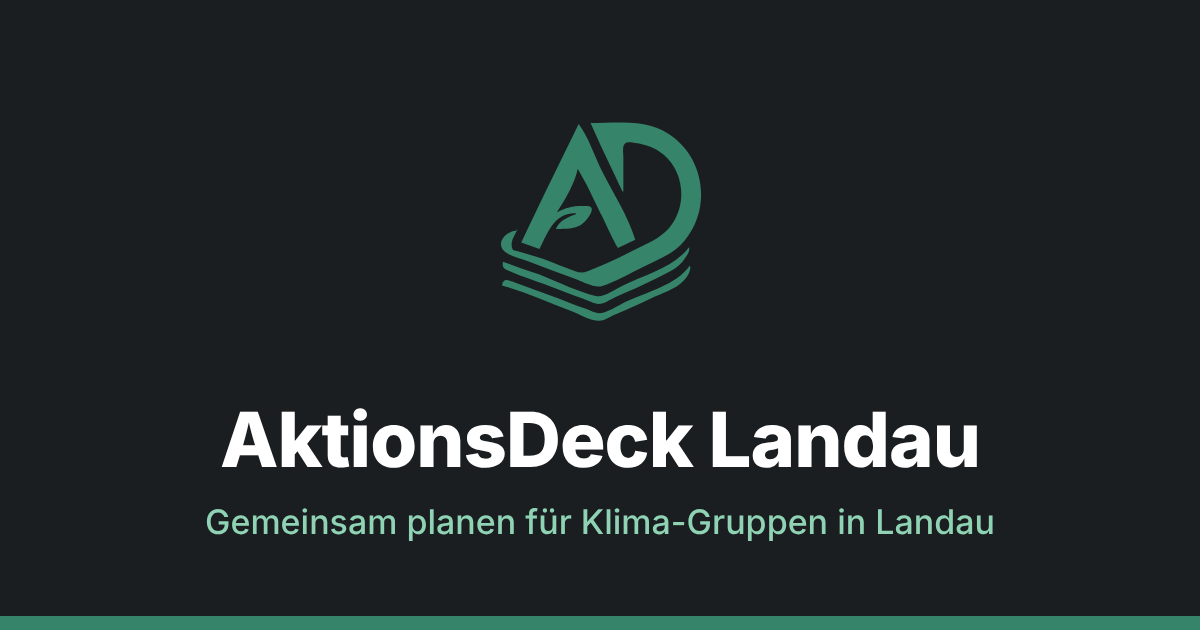
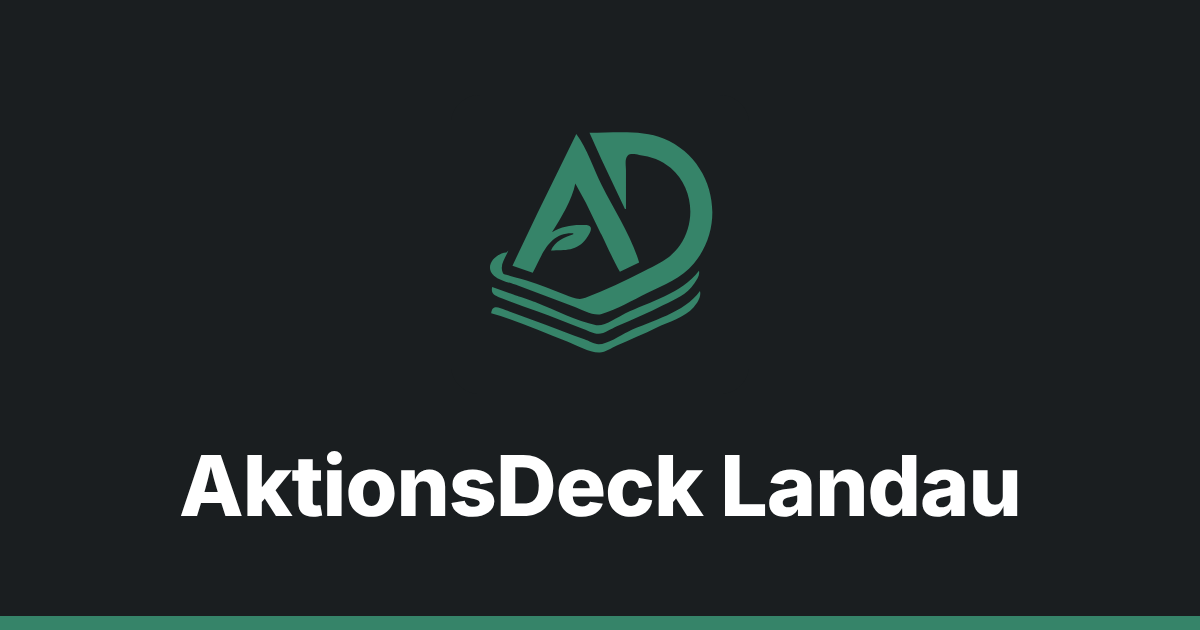
Nachbesserung Link-Vorschau: Bild ohne Satz, neue Beschreibung
Version 1.1.4 -> 1.1.5.

Claude-Session: https://claude.ai/code/session_018iHQc7QXARgUH8L4gKRJaf

Changed region(s): [[0.1542, 0.6333, 0.8633, 0.8746], [0.4008, 0.181, 0.6167, 0.573]]

diff --git a/index.html b/index.html
@@ -7,18 +7,18 @@
   <title>AktionsDeck Landau</title>
   <meta name="theme-color" content="#368469">
   <!-- Link-Vorschau (Open Graph): Das zeigen Signal, WhatsApp, Telegram und Co., wenn jemand den Link verschickt. Bild 1200 x 630. -->
-  <meta name="description" content="Web-App für Klima-Gruppen in Landau: Projekte, ToDos, Material, Mobi, Kalender und Wiki an einem Ort.">
+  <meta name="description" content="Web-App für Engagement in Landau. Gezielt planen, gemeinsam handeln, gemeinsam bewegen.">
   <meta property="og:type" content="website">
   <meta property="og:site_name" content="AktionsDeck Landau">
   <meta property="og:locale" content="de_DE">
   <meta property="og:title" content="AktionsDeck Landau">
-  <meta property="og:description" content="Web-App für Klima-Gruppen in Landau: Projekte, ToDos, Material, Mobi, Kalender und Wiki an einem Ort.">
+  <meta property="og:description" content="Web-App für Engagement in Landau. Gezielt planen, gemeinsam handeln, gemeinsam bewegen.">
   <meta property="og:url" content="https://fridaysforfuture-landau.de/aktionsdeck-landau/">
   <meta property="og:image" content="https://fridaysforfuture-landau.de/aktionsdeck-landau/icons/vorschau.png">
   <meta property="og:image:type" content="image/png">
   <meta property="og:image:width" content="1200">
   <meta property="og:image:height" content="630">
-  <meta property="og:image:alt" content="Logo von AktionsDeck Landau mit dem Satz: Gemeinsam planen für Klima-Gruppen in Landau">
+  <meta property="og:image:alt" content="Logo und Name von AktionsDeck Landau">
   <meta name="twitter:card" content="summary_large_image">
   <script src="js/darstellung-start.js"></script>
   <link rel="manifest" href="manifest.webmanifest">

diff --git a/js/config.js b/js/config.js
@@ -2,7 +2,7 @@
 // Einstellungen der App. Keine PINs, keine Geheimnisse.
 
 // Bei jeder Änderung an der App hochzählen. Gleiche Nummer steht in sw.js.
-export const VERSION = '1.1.4';
+export const VERSION = '1.1.5';
 
 // Web-App-URL aus Schritt 1.4 (endet auf /exec)
 export const API_URL = 'https://script.google.com/macros/s/AKfycbxdAQc32go_QZNAFxeEL89isDW49KTncxkUrEEXUKyDReCZKxChj7B5aPa9wyhy--uf9Q/exec';

diff --git a/sw.js b/sw.js
@@ -3,7 +3,7 @@
 // Eine neue Version lädt im Hintergrund und wartet, bis die App „Jetzt neu laden“ schickt (js/app.js).
 // Daten der API liegen nicht hier, sondern in IndexedDB (js/cache.js).
 
-const VERSION = '1.1.4';
+const VERSION = '1.1.5';
 const CACHE = 'aktionsdeck-' + VERSION;
 
 const HUELLE = [

diff --git a/docs/STAND.md b/docs/STAND.md
@@ -4,7 +4,7 @@
 Lies sie zuerst, bei jeder Aufgabe. `CLAUDE.md` im Hauptordner zeigt nur hierher.
 Für eine neue Etappe kommt ein eigener Plan dazu (`docs/PLAN-ETAPPE-<n>.md`); am Ende der Etappe wird er hier eingearbeitet und gelöscht.
 
-- Version der App: **1.1.4** (gleich in `js/config.js` und `sw.js`: beide Dateien prüfen)
+- Version der App: **1.1.5** (gleich in `js/config.js` und `sw.js`: beide Dateien prüfen)
 - Repo: https://github.com/fridaysforfuture-landau-pfalz/aktionsdeck-landau
 - Seite (App): https://fridaysforfuture-landau.de/aktionsdeck-landau/
 - Laufende Etappe: **keine**. Etappe 13 „Gruppen eröffnen sich selbst“ ist mit Version 1.1.2 abgeschlossen (01.11.2026), Festlegungen in 4.11.
@@ -528,7 +528,7 @@ Ausführlich für alle: `texte/entwicklung.txt`. Einzelheiten je Schritt: Pull R
   - 13.2 (1.1.1): Seite `#/neue-gruppe` mit Formular, Kachel auf der Startseite, Anleitung und Datenschutz angepasst.
   - 13.3 (1.1.2): Sheet-Menü „Gruppe freischalten“, Foto-Ordner automatisch, Hinweis unter „Was ist neu?“, Plan eingearbeitet und gelöscht.
   - Nachbesserung (1.1.3): Feld „Wer seid ihr?“ im Antrag und in der Prüfung, Satz zum PIN auf der Danke-Seite.
-- **Einzelschritt** (1.1.4, 04.11.2026): Link-Vorschau mit Open-Graph-Tags und Bild `icons/vorschau.png`.
+- **Einzelschritt** (1.1.4 und 1.1.5, 04.11.2026): Link-Vorschau mit Open-Graph-Tags und Bild `icons/vorschau.png`.
 
 ---
 
